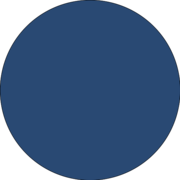
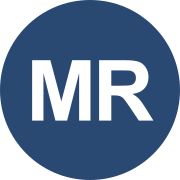
Aggiunge sezione Caffè virtuale, corregge testi troncati e aggiorna branding
- Corregge sei punti in cui la parola "metodo" era stata rimossa per
  errore da un cerca-e-sostituisci (hero, profilo, 10 punti, JSON-LD)
- Uniforma la capitalizzazione di "Il Resto del Carlino" in rassegna stampa
- Aggiunge sezione dedicata "Un caffè virtuale con Marco Rocchi" con link
  alla prenotazione Google Calendar, voce in nav e reel Instagram #18
- Ottimizza il ritratto hero (Marco-Rocchi.webp, 1000x1000, ~60KB) al posto
  del PNG da 1.2MB; il PNG originale si sposta in Materiali-e-bozze/
- Aggiorna favicon/apple-touch-icon con monogramma "MR" centrato
- Allinea theme-color (index.html, site.webmanifest) al blu istituzionale
  UniUrb (#294973), sostituendo il residuo della vecchia palette Nord
- Aggiorna sitemap.xml e meta/OG/Twitter description

Claude-Session: https://claude.ai/code/session_01XoMsS4vp9xKnTTwC6HcsW8

diff --git a/index.html b/index.html
@@ -8,18 +8,18 @@
 
   <title>Marco Rocchi — Statistica medica, Università di Urbino Carlo Bo</title>
   <meta name="description"
-    content="Marco Rocchi, professore di Statistica medica e direttore del Dipartimento di Scienze Biomolecolari (DISB) all'Università di Urbino Carlo Bo. Profilo e visione.">
+    content="Marco Rocchi, professore di Statistica medica, candidato Rettore all'Università di Urbino Carlo Bo. Profilo, visione e un caffè virtuale per parlarne insieme.">
   <meta name="author" content="Marco Rocchi">
   <meta name="robots" content="index, follow, max-image-preview:large">
   <link rel="canonical" href="https://marco-rocchi.it/">
-  <meta name="theme-color" content="#2E3440">
+  <meta name="theme-color" content="#294973">
 
   <meta property="og:type" content="profile">
   <meta property="og:locale" content="it_IT">
   <meta property="og:site_name" content="Marco Rocchi">
   <meta property="og:title" content="Marco Rocchi — Statistica medica, Università di Urbino Carlo Bo">
   <meta property="og:description"
-    content="Profilo, visione per l'Ateneo e materiali. Statistica medica, metodo, governo dell'università fondato sui dati.">
+    content="Profilo, visione per l'Ateneo e materiali. Statistica medica, metodo, dati — e un caffè virtuale per parlarne direttamente col prof. Rocchi.">
   <meta property="og:url" content="https://marco-rocchi.it/">
   <meta property="og:image" content="https://marco-rocchi.it/og-image.jpg">
   <meta property="og:image:width" content="1200">
@@ -30,7 +30,8 @@
 
   <meta name="twitter:card" content="summary_large_image">
   <meta name="twitter:title" content="Marco Rocchi — Statistica medica, Università di Urbino Carlo Bo">
-  <meta name="twitter:description" content="Profilo, visione per l'Ateneo e materiali.">
+  <meta name="twitter:description"
+    content="Profilo e visione per l'Ateneo. Prenota un caffè virtuale per parlarne direttamente col prof. Rocchi.">
   <meta name="twitter:image" content="https://marco-rocchi.it/og-image.jpg">
 
   <link rel="icon" href="/favicon.svg" type="image/svg+xml">
@@ -75,7 +76,7 @@
       "familyName": "Rocchi",
       "jobTitle": "Professore ordinario di Statistica medica",
       "description": "Professore ordinario di Statistica medica e direttore del Dipartimento di Scienze Biomolecolari dell'Università di Urbino Carlo Bo. Biostatistico, laureato in Scienze Biologiche e in Filosofia.",
-      "image": "https://marco-rocchi.it/Marco-Rocchi.png",
+      "image": "https://marco-rocchi.it/Marco-Rocchi.webp",
       "url": "https://marco-rocchi.it/",
       "birthDate": "1962",
       "birthPlace": { "@type": "Place", "name": "Milano, Italia" },
@@ -84,7 +85,7 @@
       "knowsAbout": [
         "Statistica medica",
         "Biostatistica",
-        "logia della ricerca clinica",
+        "Metodologia della ricerca clinica",
         "Epidemiologia",
         "Storia e filosofia della scienza"
       ],
@@ -388,7 +389,7 @@
       display: block
     }
 
-    @media (max-width:760px) {
+    @media (max-width:880px) {
       .nav-toggle {
         display: inline-flex
       }
@@ -841,6 +842,72 @@
       cursor: default
     }
 
+    /* =========================================================================
+   CAFFÈ VIRTUALE (CTA prenotazione)
+   ========================================================================= */
+    .section--dark {
+      background: var(--polar-0);
+      background-image: none;
+      color: var(--snow-0);
+    }
+
+    .section--dark h2 {
+      color: #fff;
+    }
+
+    .section--dark .kicker {
+      color: var(--snow-0);
+    }
+
+    .section--dark .lead {
+      color: var(--frost-cyan);
+    }
+
+    .coffee-features {
+      list-style: none;
+      margin: 1.6rem 0 0;
+      padding: 0;
+      display: flex;
+      flex-wrap: wrap;
+      gap: .6rem 1.6rem;
+      font-family: var(--mono);
+      font-size: .82rem;
+      letter-spacing: .02em;
+    }
+
+    .coffee-features li {
+      display: flex;
+      align-items: center;
+      gap: .5rem
+    }
+
+    .coffee-features svg {
+      flex: 0 0 auto;
+      color: var(--frost-blue)
+    }
+
+    .btn--coffee {
+      background: #fff;
+      color: var(--polar-0);
+      border-color: #fff;
+      font-size: .92rem;
+      padding: 1rem 1.5rem
+    }
+
+    .btn--coffee:hover {
+      background: var(--accent);
+      border-color: var(--accent);
+      color: #fff;
+      transform: translateY(-2px)
+    }
+
+    .coffee-note {
+      margin-top: 1.2rem;
+      font-size: .8rem;
+      color: rgba(255, 255, 255, .75);
+      max-width: 48ch
+    }
+
     /* press */
     .press-list {
       list-style: none;
@@ -1171,6 +1238,7 @@
         <ul class="nav-links" id="navlinks">
           <li><a href="#profilo">Profilo</a></li>
           <li><a href="#punti">10 punti</a></li>
+          <li><a href="#caffe">Caffè virtuale</a></li>
           <li><a href="#materiali">Materiali</a></li>
           <li><a href="#visione">Video</a></li>
           <li><a href="#stampa">Stampa</a></li>
@@ -1187,7 +1255,7 @@
         <div class="reveal">
           <span class="kicker">Università degli Studi di Urbino Carlo Bo</span>
           <h1>Marco Rocchi</h1>
-          <p class="role">Professore ordinario di Statistica medica.<br>Una guida per l'Ateneo fondata sul e sui
+          <p class="role">Professore ordinario di Statistica medica.<br>Una guida per l'Ateneo fondata sul metodo e sui
             dati.</p>
 
           <p><i>«L'università è una comunità di studiosi e di studenti. Il dialogo è la base della democrazia.»</i><br>
@@ -1218,7 +1286,7 @@
 
         <div class="reveal">
 
-          <div class="portrait"><img src="Marco-Rocchi.png" width="800" height="800" alt="Marco Bruno Luigi Rocchi">
+          <div class="portrait"><img src="Marco-Rocchi.webp" width="1000" height="1000" alt="Marco Bruno Luigi Rocchi">
           </div>
 
         </div>
@@ -1261,7 +1329,7 @@
           <p>Accanto alla scienza, una formazione umanistica mai accantonata. Laureato anche in Filosofia, ha studiato
             il rapporto tra scienza e pensiero — il newtonianesimo e l'eredità dell'illuminismo — in saggi e volumi
             pubblicati con editori come Mimesis. È una doppia cittadinanza, scientifica e filosofica, che orienta il suo
-            modo di intendere l'Università: un luogo dove il rigore del e la cultura non sono mondi separati.</p>
+            modo di intendere l'Università: un luogo dove il rigore del metodo e la cultura non sono mondi separati.</p>
         </div>
         <aside class="aside-card reveal" aria-label="Profili accademici">
           <h3>Profili e ricerca</h3>
@@ -1284,7 +1352,7 @@
           <span class="kicker">La proposta</span>
           <h2>10 punti per l'Ateneo</h2>
           <p>Urbino è a un bivio: calo demografico, telematiche, internazionalizzazione da costruire. A sfide così non
-            si risponde con le promesse, ma con il : decidere sulle evidenze, ascoltare chi fa vivere l'Ateneo,
+            si risponde con le promesse, ma con il metodo: decidere sulle evidenze, ascoltare chi fa vivere l'Ateneo,
             rendere conto dei risultati.</p>
           <br>
           <p
@@ -1295,7 +1363,7 @@
         <div class="punti-list reveal">
           <details class="punto" name="dieci-punti" open>
             <summary><span class="pn">01</span>
-              <h3>Un governo del : dati, ascolto, responsabilità</h3><svg class="chev" width="16" height="16"
+              <h3>Un governo del metodo: dati, ascolto, responsabilità</h3><svg class="chev" width="16" height="16"
                 viewBox="0 0 24 24" fill="none" stroke="currentColor" stroke-width="2.2" stroke-linecap="round"
                 aria-hidden="true">
                 <path d="M9 6l6 6-6 6" />
@@ -1487,6 +1555,52 @@
       </div>
     </section>
 
+    <section class="section section--dark" id="caffe">
+      <div class="wrap">
+        <div class="section__head reveal" style="max-width:640px">
+          <span class="kicker">Parliamone di persona</span>
+          <h2>Un caffè virtuale con Marco Rocchi</h2>
+          <p class="lead"><i>«Il futuro dell'Università di Urbino si costruisce insieme, partendo dall'ascolto e dal
+              confronto libero.»</i></p>
+          <p>Il prof. Rocchi invita chiunque lo desideri — studenti, docenti, personale tecnico-amministrativo,
+            cittadini — a un incontro individuale di 30 minuti su Google Meet, per parlare liberamente di idee,
+            criticità e soluzioni per l'Ateneo. Senza formalismi, in totale riservatezza, dal proprio smartphone o
+            computer. Nessun impegno, nessuna richiesta di voto: solo dialogo sincero.</p>
+
+          <ul class="coffee-features">
+            <li><svg width="16" height="16" viewBox="0 0 24 24" fill="none" stroke="currentColor" stroke-width="2"
+                stroke-linecap="round" stroke-linejoin="round" aria-hidden="true">
+                <circle cx="12" cy="12" r="9" />
+                <path d="M12 7v5l3 3" />
+              </svg>30 minuti, a quattr'occhi</li>
+            <li><svg width="16" height="16" viewBox="0 0 24 24" fill="none" stroke="currentColor" stroke-width="2"
+                stroke-linecap="round" stroke-linejoin="round" aria-hidden="true">
+                <rect x="2" y="6" width="14" height="12" rx="2" />
+                <path d="M16 10l6-3v10l-6-3" />
+              </svg>Su Google Meet, da smartphone o PC</li>
+            <li><svg width="16" height="16" viewBox="0 0 24 24" fill="none" stroke="currentColor" stroke-width="2"
+                stroke-linecap="round" stroke-linejoin="round" aria-hidden="true">
+                <rect x="4" y="11" width="16" height="9" rx="2" />
+                <path d="M8 11V7a4 4 0 0 1 8 0v4" />
+              </svg>Colloquio privato e informale</li>
+            <li><svg width="16" height="16" viewBox="0 0 24 24" fill="none" stroke="currentColor" stroke-width="2"
+                stroke-linecap="round" stroke-linejoin="round" aria-hidden="true">
+                <path
+                  d="M21 11.5a8.4 8.4 0 0 1-.9 3.8 8.5 8.5 0 0 1-7.6 4.7 8.4 8.4 0 0 1-3.8-.9L3 21l1.9-5.7a8.4 8.4 0 0 1-.9-3.8 8.5 8.5 0 0 1 4.7-7.6 8.4 8.4 0 0 1 3.8-.9h.5a8.48 8.48 0 0 1 8 8v.5z" />
+              </svg>Nessun impegno, solo dialogo sincero</li>
+          </ul>
+
+          <div class="cta-row">
+            <a class="btn btn--coffee"
+              href="https://calendar.google.com/calendar/u/0/appointments/schedules/AcZssZ0BZSLsvlrZBtE3xEIW2Pf1Qno8ztqq0KW73b6pPJj3vKysEibuakUN3UsuM33qxL2HSdG1u31m"
+              target="_blank" rel="noopener">Prenota il tuo caffè virtuale →</a>
+          </div>
+          <p class="coffee-note">La prenotazione avviene tramite Google Calendar: inserendo i tuoi dati acconsenti al
+            trattamento da parte di Google per la gestione dell'appuntamento.</p>
+        </div>
+      </div>
+    </section>
+
     <section class="section" id="materiali">
       <div class="wrap">
         <div class="section__head reveal">
@@ -1527,12 +1641,23 @@
       <div class="wrap">
         <div class="section__head reveal">
           <span class="kicker">La visione per l'Ateneo</span>
-          <h2>Direzioni e </h2>
+          <h2>Direzioni e metodo</h2>
           <p>Sommari di una sola idea di fondo: governare l'Ateneo sui fatti e con la comunità, rendendo conto dei
             risultati. <b>Il prof. Rocchi li racconta su Instagram</b>
           </p>
         </div>
         <div class="pillars">
+          <article class="pillar reveal">
+            <span class="pillar__n">18</span>
+            <h3>Un caffè virtuale con Marco Rocchi</h3>
+            <p class="pillar-ig"><svg width="15" height="15" viewBox="0 0 24 24" fill="none" stroke="currentColor"
+                stroke-width="2" aria-hidden="true">
+                <rect x="2" y="2" width="20" height="20" rx="5" />
+                <circle cx="12" cy="12" r="4" />
+                <circle cx="17.5" cy="6.5" r="1" fill="currentColor" stroke="none" />
+              </svg><a href="https://www.instagram.com/reels/Dc0QcuHICHz/" target="_blank" rel="noopener">Apri il reel
+                →</a></p>
+          </article>
           <article class="pillar reveal">
             <span class="pillar__n">17</span>
             <h3>Intervista a TeleRomagna 02</h3>
@@ -1751,17 +1876,17 @@
               target="_blank" rel="noopener">Nuovo rettore, in campo anche Rocchi<span class="src">Corriere Adriatico —
                 giugno 2026</span></a></li>
           <li><a href="https://www.ilrestodelcarlino.it/fano/cronaca/passioni-al-bancone-il-4c562a9f" target="_blank"
-              rel="noopener">Passioni al bancone. Il Caffè delle Scienze festeggia 102 anni<span class="src">il Resto
+              rel="noopener">Passioni al bancone. Il Caffè delle Scienze festeggia 102 anni<span class="src">Il Resto
                 del Carlino — dicembre 2025</span></a></li>
           <li><a href="https://www.ilrestodelcarlino.it/pesaro/cronaca/rocchi-la-nostra-universita-rimane-bdde4235"
-              target="_blank" rel="noopener">Rocchi: "La nostra università rimane attrattiva"<span class="src">il Resto
+              target="_blank" rel="noopener">Rocchi: "La nostra università rimane attrattiva"<span class="src">Il Resto
                 del Carlino — novembre 2025</span></a></li>
           <li><a
               href="https://www.viverepesaro.it/2025/10/08/il-fuoco-che-trasforma-e-forgia-lalchimia-incontra-la-ceramica-nella-chiesa-del-nome-di-dio/154991/"
               target="_blank" rel="noopener">L'alchimia incontra la ceramica nella Chiesa del Nome di Dio'<span
                 class="src">Vivere Pesaro — ottobre 2025</span></a></li>
           <li><a href="https://www.ilrestodelcarlino.it/ancona/cronaca/la-magia-di-popsophia-abracadabra-eeaced55"
-              target="_blank" rel="noopener">La magia di Popsophia "Abracadabra"<span class="src">il Resto del Carlino —
+              target="_blank" rel="noopener">La magia di Popsophia "Abracadabra"<span class="src">Il Resto del Carlino —
                 maggio 2025</span></a></li>
           <li><a
               href="https://uniamo.uniurb.it/linee-guida-iss-il-contributo-di-uniurb-alla-direttiva-nazionale-sulla-valutazione-del-danno-alla-persona/"
@@ -1769,41 +1894,41 @@
               del danno alla persona<span class="src">#Uniamo, Università di Urbino — 2025</span></a></li>
           <li><a
               href="https://www.ilrestodelcarlino.it/pesaro/cronaca/scienze-motorie-e-carcere-22-anni-di-collaborazione-acb4fdc3"
-              target="_blank" rel="noopener">Scienze motorie e carcere, 22 anni di collaborazione<span class="src">il
+              target="_blank" rel="noopener">Scienze motorie e carcere, 22 anni di collaborazione<span class="src">Il
                 Resto del Carlino — novembre 2024</span></a></li>
           <li><a
               href="https://ristretti.org/fossombrone-pu-esercizio-fisico-in-carcere-luniversita-di-urbino-fa-la-storia"
               target="_blank" rel="noopener">Esercizio fisico in carcere, l'Università di Urbino fa la storia<span
-                class="src">il Resto del Carlino — novembre 2024</span></a></li>
+                class="src">Il Resto del Carlino — novembre 2024</span></a></li>
           <li><a href="https://www.ilrestodelcarlino.it/pesaro/cronaca/luniversita-sfida-le-telematiche-faa247b3"
               target="_blank" rel="noopener">«L'Università sfida le telematiche»: dati sull'istruzione e sul
-              finanziamento degli atenei<span class="src">il Resto del Carlino — ottobre 2024</span></a></li>
+              finanziamento degli atenei<span class="src">Il Resto del Carlino — ottobre 2024</span></a></li>
           <li><a
               href="https://www.ilrestodelcarlino.it/pesaro/cronaca/anche-il-prof-rocchi-diventa-membro-di-urbino-capoluogo-dbaad834"
-              target="_blank" rel="noopener">Anche il prof Rocchi diventa membro di Urbino Capoluogo<span class="src">il
+              target="_blank" rel="noopener">Anche il prof Rocchi diventa membro di Urbino Capoluogo<span class="src">Il
                 Resto del Carlino — agosto 2024</span></a></li>
           <li><a href="https://www.ilrestodelcarlino.it/pesaro/cronaca/ora-serve-un-patto-per-cec14ff3" target="_blank"
-              rel="noopener">Ora serve un patto per Uniurb che coinvolga enti e territori<span class="src">il Resto del
+              rel="noopener">Ora serve un patto per Uniurb che coinvolga enti e territori<span class="src">Il Resto del
                 Carlino — maggio 2024</span></a></li>
           <li><a
               href="https://www.ilrestodelcarlino.it/pesaro/cronaca/tante-iniziative-per-la-giornata-della-memoria-la-tragedia-della-shoah-un-crimine-senza-ragioni-ymqw2l8e"
               target="_blank" rel="noopener">Tante iniziative per la Giornata della Memoria La tragedia della Shoah, un
-              crimine senza ragioni<span class="src">il Resto del Carlino — gennaio 2023</span></a></li>
+              crimine senza ragioni<span class="src">Il Resto del Carlino — gennaio 2023</span></a></li>
           <li><a href="https://www.ilrestodelcarlino.it/pesaro/cronaca/il-commosso-ricordo-di-andrea-tontini-6257f2bf"
-              target="_blank" rel="noopener">Il commosso ricordo di Andrea Tontini<span class="src">il Resto del Carlino
+              target="_blank" rel="noopener">Il commosso ricordo di Andrea Tontini<span class="src">Il Resto del Carlino
                 — novembre 2022</span></a></li>
           <li><a
               href="https://www.ilrestodelcarlino.it/pesaro/cronaca/carcinoma-polmone-nuove-ricerche-anche-con-marco-rocchi-fb2fb60c"
               target="_blank" rel="noopener">Carcinoma polmone: nuove ricerche anche con Marco Rocchi<span
-                class="src">il Resto del Carlino — settembre 2022</span></a></li>
+                class="src">Il Resto del Carlino — settembre 2022</span></a></li>
           <li><a
               href="https://www.ilrestodelcarlino.it/pesaro/cronaca/svelato-lidentikit-del-microbiota-nazionale-cf52c93b"
-              target="_blank" rel="noopener">Svelato l'identikit del microbiota nazionale<span class="src">il Resto del
+              target="_blank" rel="noopener">Svelato l'identikit del microbiota nazionale<span class="src">Il Resto del
                 Carlino — marzo 2022</span></a></li>
           <li><a
               href="https://www.ilrestodelcarlino.it/pesaro/cronaca/al-di-la-del-fiume-e-tra-gli-alberi-su-rai-5-una-urbino-vivacissima-9b69d9e9"
               target="_blank" rel="noopener">“Al di là del fiume e tra gli alberi“ su Rai 5 una Urbino vivacissima<span
-                class="src">il Resto del Carlino — ottobre 2021</span></a></li>
+                class="src">Il Resto del Carlino — ottobre 2021</span></a></li>
           <li><a href="https://uniamo.uniurb.it/modelli-matematici-urbino-covid19/" target="_blank"
               rel="noopener">Modelli matematici e biostatistica: leggere un'epidemia attraverso i numeri<span
                 class="src">#Uniamo, Università di Urbino — aprile 2020</span></a></li>

diff --git a/Materiali-e-bozze/indexprov.html b/Materiali-e-bozze/indexprov.html
@@ -75,7 +75,7 @@
       "familyName": "Rocchi",
       "jobTitle": "Professore ordinario di Statistica medica",
       "description": "Professore ordinario di Statistica medica e direttore del Dipartimento di Scienze Biomolecolari dell'Università di Urbino Carlo Bo. Biostatistico, laureato in Scienze Biologiche e in Filosofia.",
-      "image": "https://marco-rocchi.it/Marco-Rocchi.png",
+      "image": "https://marco-rocchi.it/Marco-Rocchi.webp",
       "url": "https://marco-rocchi.it/",
       "birthDate": "1962",
       "birthPlace": { "@type": "Place", "name": "Milano, Italia" },
